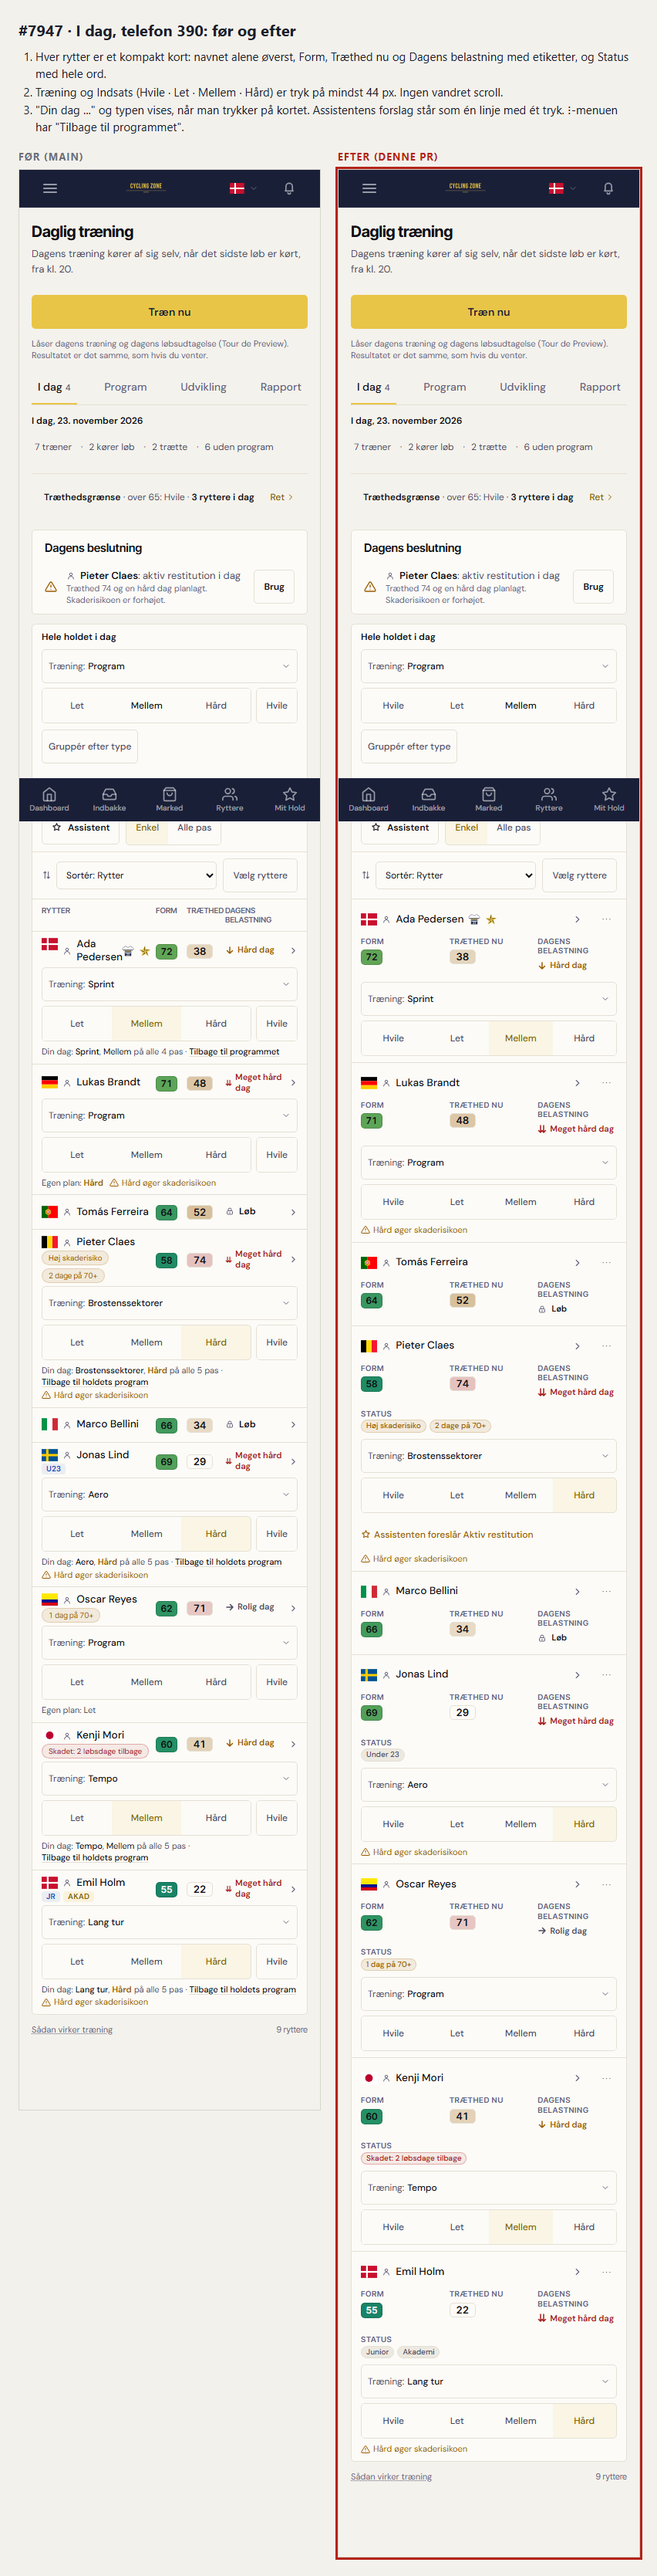
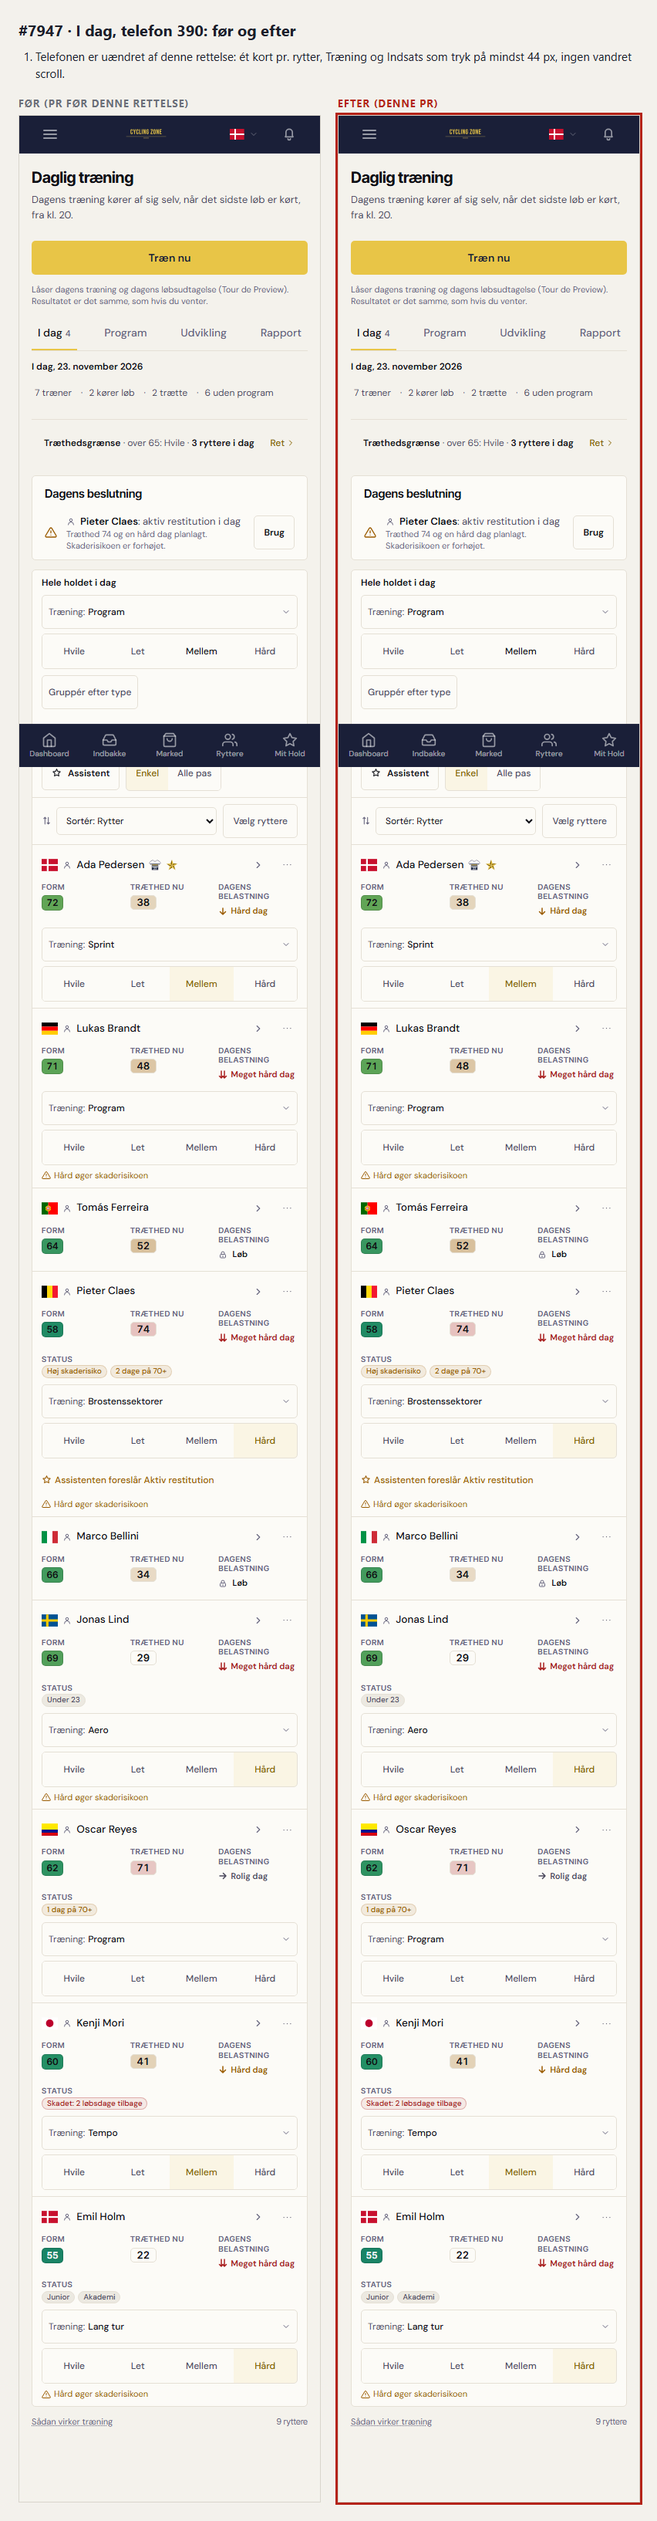
fix(training): kolonnebredder i I dag uden to-linjers raekker, nye foer/efter-billeder (Refs #7947)

diff --git a/frontend/src/components/training/r5/TodayR5.tsx b/frontend/src/components/training/r5/TodayR5.tsx
@@ -918,21 +918,21 @@ export default function TodayR5({ r5 }: { r5: TodayR5Props }) {
     <table className="w-full min-w-[1150px] table-fixed text-xs" data-sortable data-testid="r5-table">
       <thead>
         <tr className="border-b border-cz-border">
-          <th className="w-[48px] ps-2.5 text-start">
+          <th className="w-[44px] ps-2.5 text-start">
             <input type="checkbox" checked={allSelected} onChange={() => setSelected(toggleAllSelection(selected, shownIds))}
               aria-label={tR5("selectAll")} className="h-4 w-4 rounded-[3px] accent-cz-accent" />
           </th>
-          <SortTh k="rider" label={t("colRider")} cls="w-[160px]" sort={sort} onSort={onSort} />
+          <SortTh k="rider" label={t("colRider")} cls="w-[156px]" sort={sort} onSort={onSort} />
           <SortTh k="type" label={t("colType")} cls="w-[96px]" sort={sort} onSort={onSort} />
-          <SortTh k="age" label={t("colAge")} cls="w-[48px]" sort={sort} onSort={onSort} />
-          <SortTh k="program" label={tR5("col.program")} cls="w-[108px]" sort={sort} onSort={onSort} />
-          <SortTh k="form" label={t("form")} cls="w-[48px]" sort={sort} onSort={onSort} />
+          <SortTh k="age" label={t("colAge")} cls="w-[44px]" sort={sort} onSort={onSort} />
+          <SortTh k="program" label={tR5("col.program")} cls="w-[126px]" sort={sort} onSort={onSort} />
+          <SortTh k="form" label={t("form")} cls="w-[44px]" sort={sort} onSort={onSort} />
           {/* En lang overskrift brydes inde i sin egen celle (ejer 20/11). */}
           <SortTh k="fatigue" label={tR5("col.fatigueNow")} cls="w-[64px]" sort={sort} onSort={onSort} />
-          <SortTh k="load" label={tR5("col.dayLoad")} cls="w-[80px]" sort={sort} onSort={onSort} />
+          <SortTh k="load" label={tR5("col.dayLoad")} cls="w-[84px]" sort={sort} onSort={onSort} />
           <SortTh k={null} label={tR5("row.col.status")} cls="" sort={sort} onSort={onSort} />
           <SortTh k={null} label={tR5("row.col.training")} cls="w-[164px]" sort={sort} onSort={onSort} />
-          <SortTh k={null} label={tR5("row.col.effort")} cls="w-[180px]" sort={sort} onSort={onSort} />
+          <SortTh k={null} label={tR5("row.col.effort")} cls="w-[184px]" sort={sort} onSort={onSort} />
           <th className="w-[56px]"><span className="sr-only">{tR5("row.col.assistant")} · {tR5("row.col.actions")}</span></th>
         </tr>
       </thead>
